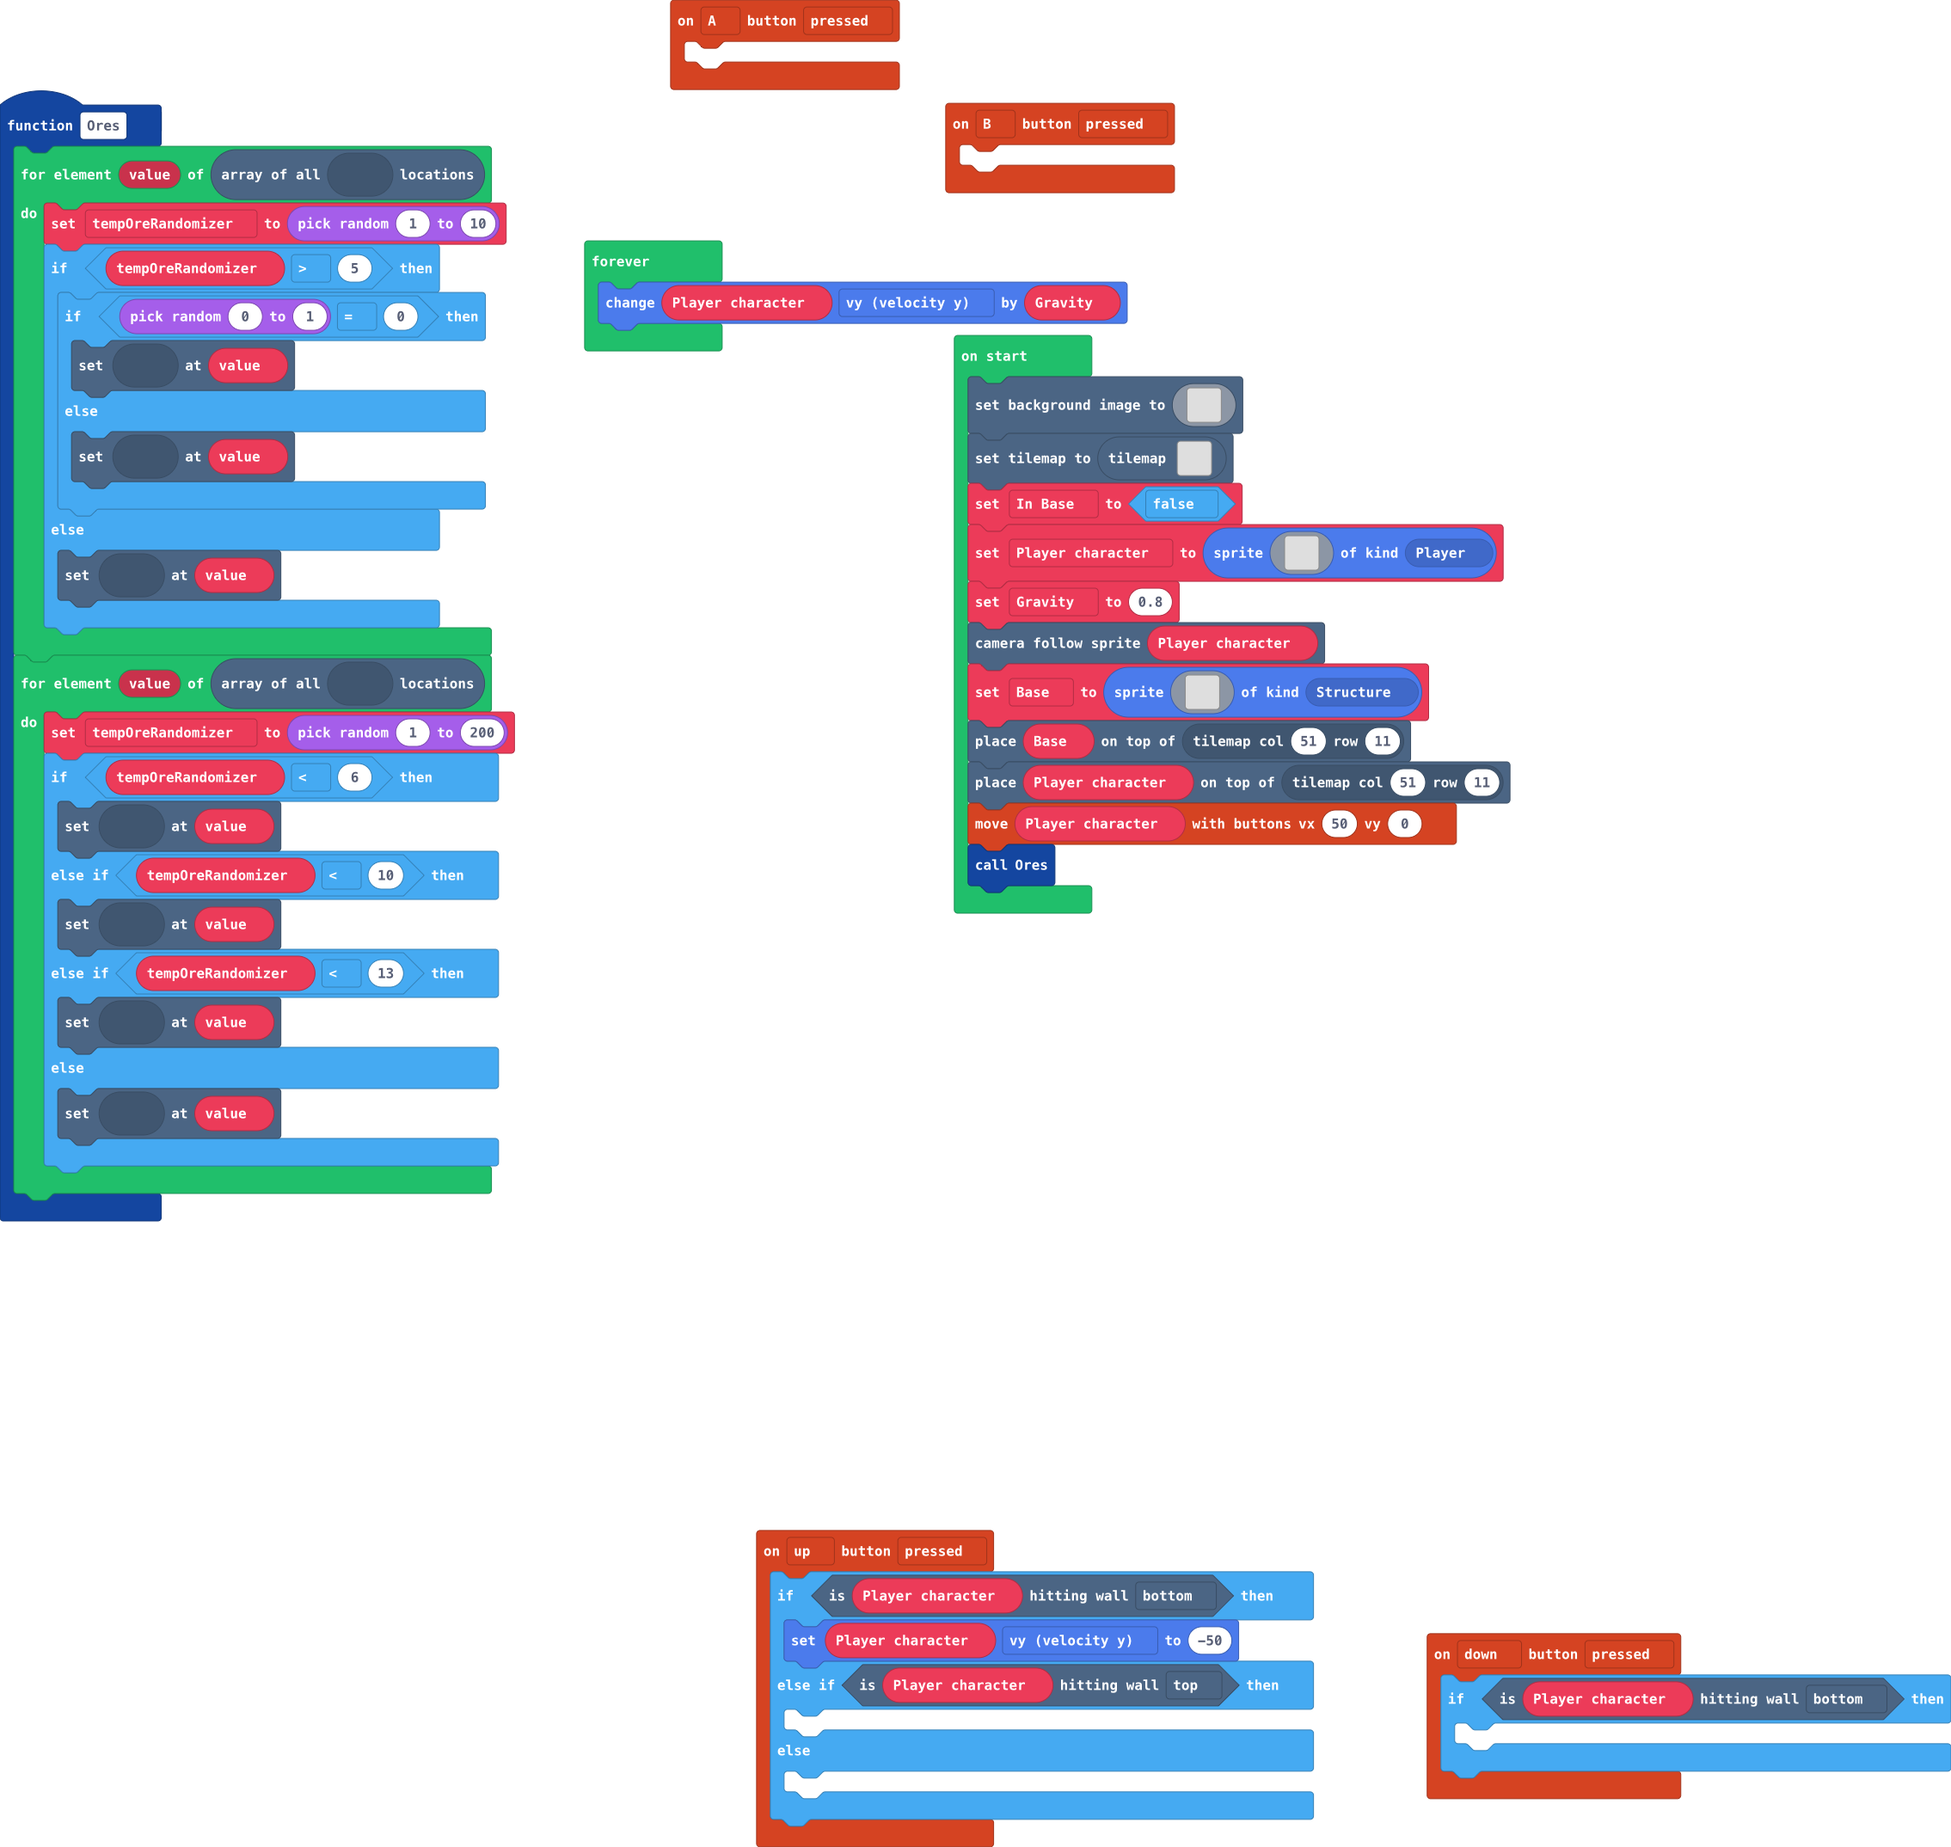
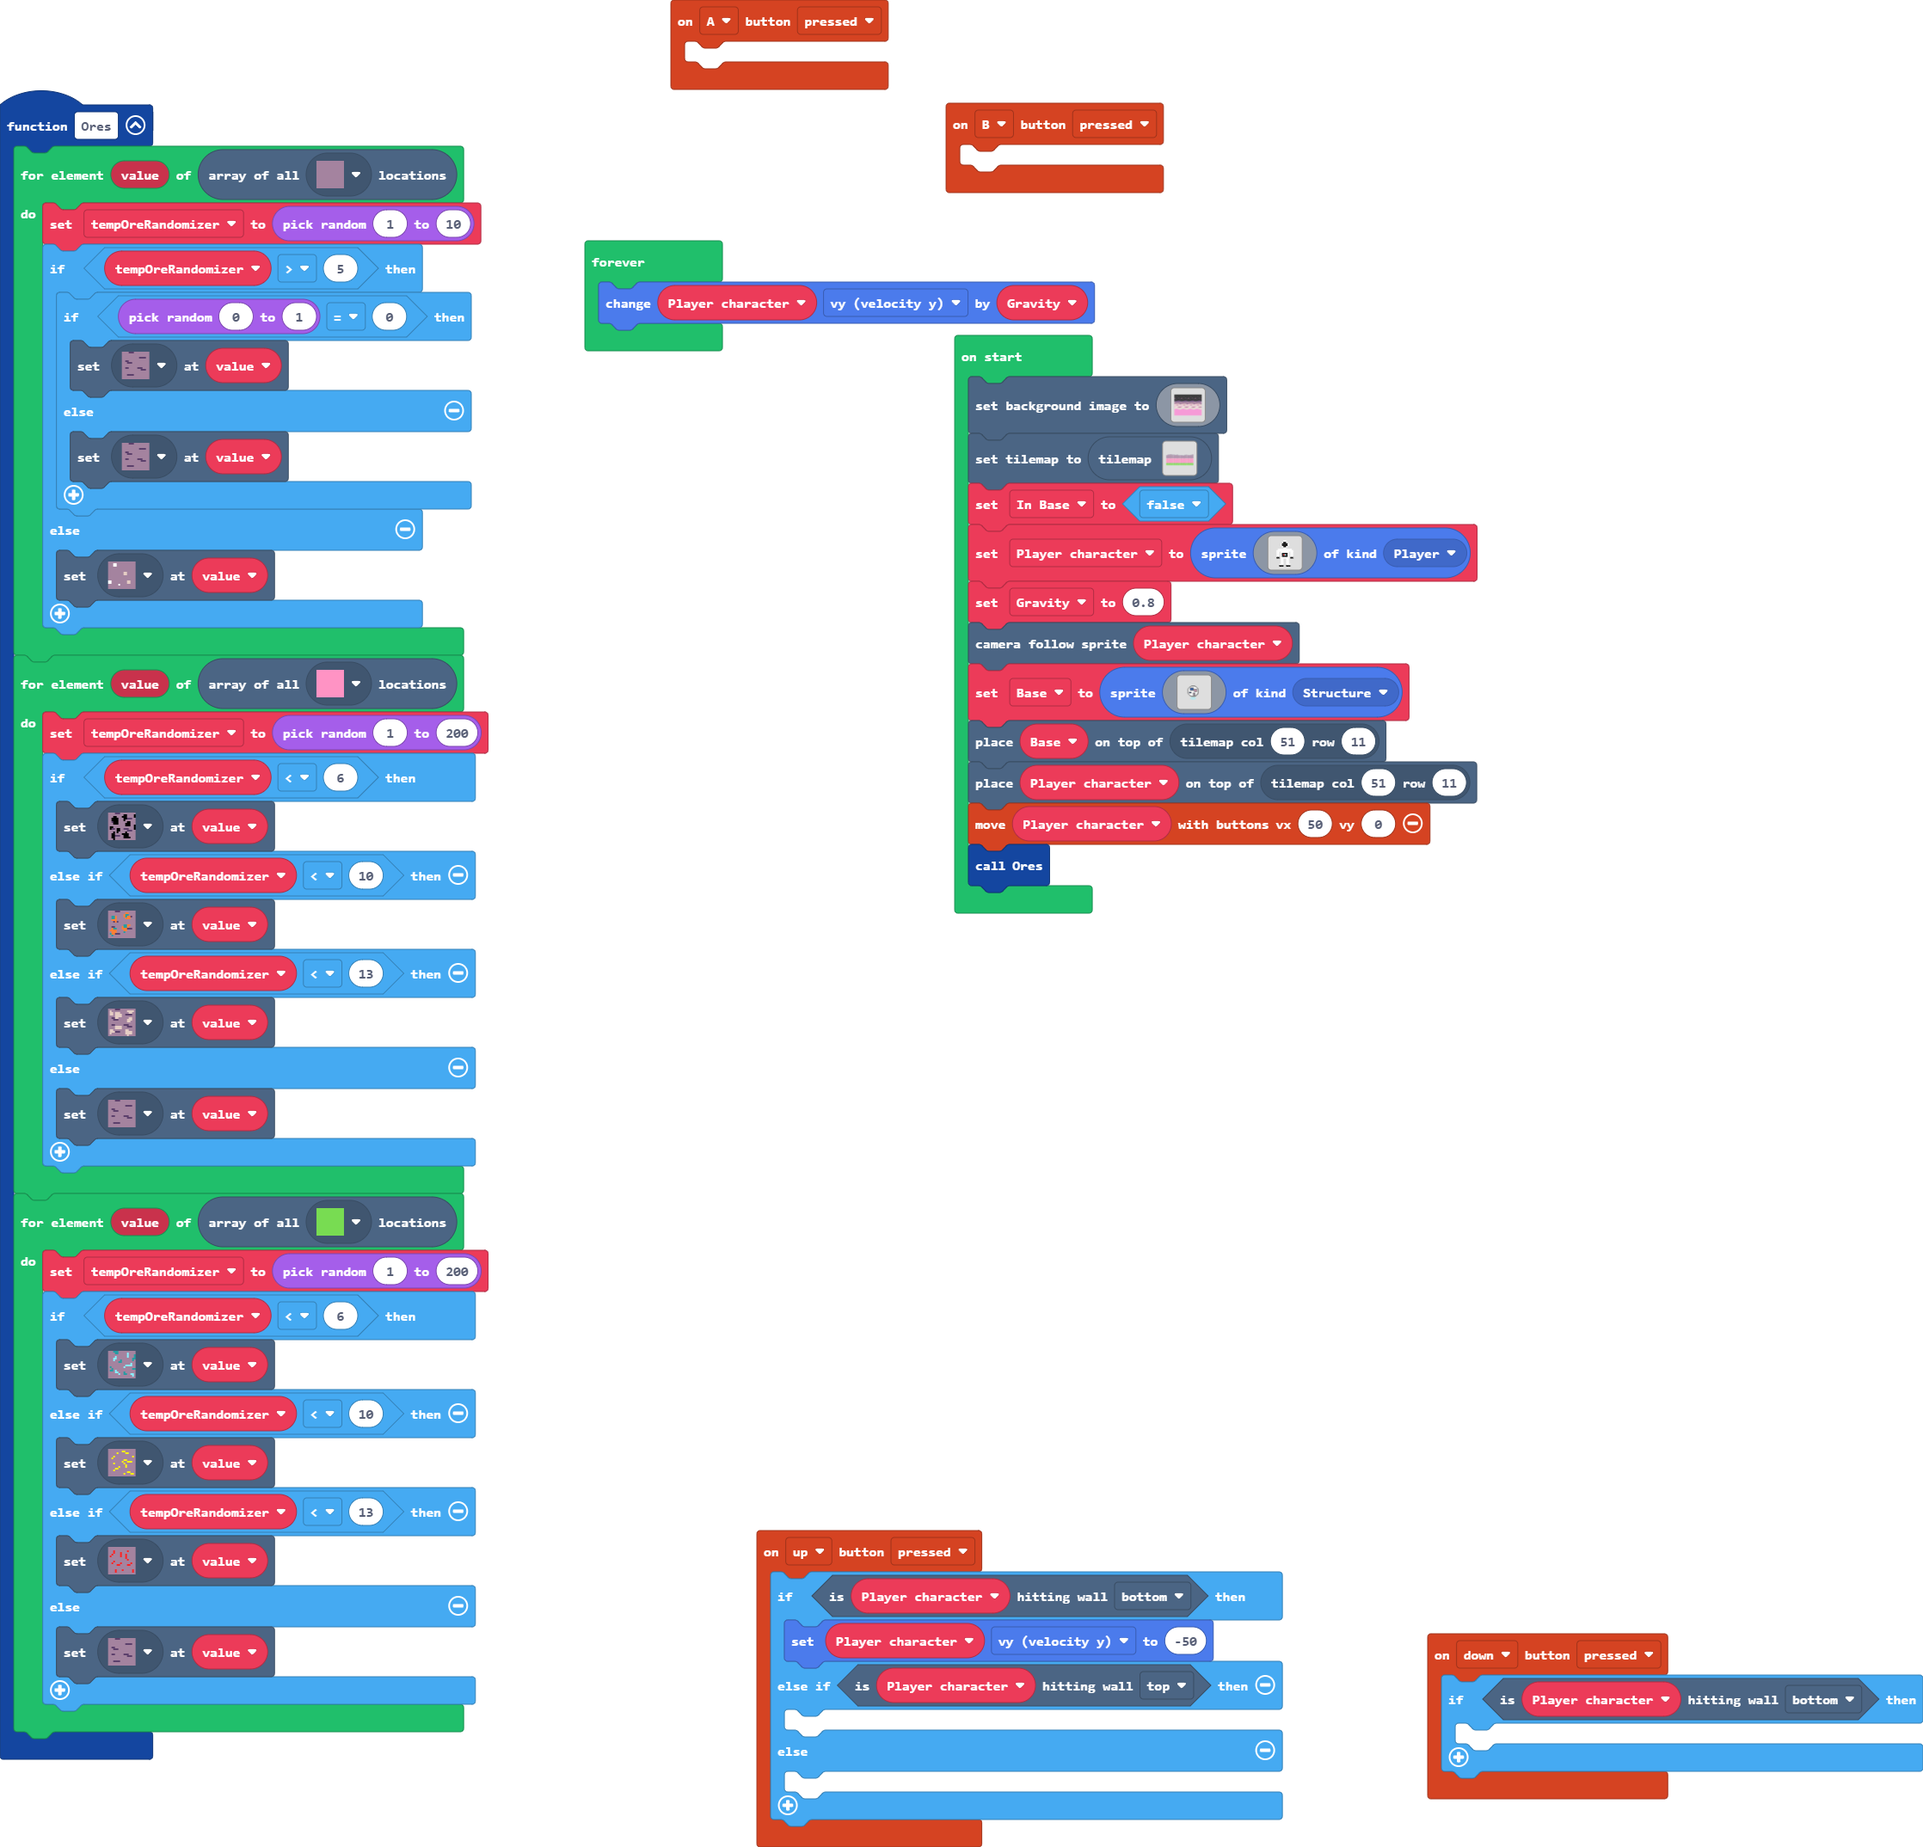
Made gemstone level

diff --git a/tilemap.g.ts b/tilemap.g.ts
@@ -32,6 +32,16 @@ namespace myTiles {
     export const tile17 = image.ofBuffer(hex``);
     //% fixedInstance jres blockIdentity=images._tile
     export const tile8 = image.ofBuffer(hex``);
+    //% fixedInstance jres blockIdentity=images._tile
+    export const tile13 = image.ofBuffer(hex``);
+    //% fixedInstance jres blockIdentity=images._tile
+    export const tile14 = image.ofBuffer(hex``);
+    //% fixedInstance jres blockIdentity=images._tile
+    export const tile18 = image.ofBuffer(hex``);
+    //% fixedInstance jres blockIdentity=images._tile
+    export const tile19 = image.ofBuffer(hex``);
+    //% fixedInstance jres blockIdentity=images._tile
+    export const tile20 = image.ofBuffer(hex``);
 
     helpers._registerFactory("tilemap", function(name: string) {
         switch(helpers.stringTrim(name)) {
@@ -88,7 +98,7 @@ namespace myTiles {
 ..............................
 `, [myTiles.transparency16], TileScale.Sixteen);
             case "Planet part 1":
-            case "level2":return tiles.createTilemap(hex`640032000000000000000000000000000000000000000000000000000000000000000000000000000000000000000000000000000000000000000000000000000000000000000000000000000000000000000000000000000000000000000000000000000000000000000000000000000000000000000000000000000000000000000000000000000000000000000000000000000000000000000000000000000000000000000000000000000000000000000000000000000000000000000000000000000000000000000000000000000000000000000000000000000000000000000000000000000000000000000000000000000000000000000000000000000000000000000000000000000000000000000000000000000000000000000000000000000000000000000000000000000000000000000000000000000000000000000000000000000000000000000000000000000000000000000000000000000000000000000000000000000000000000000000000000000000000000000000000000000000000000000000000000000000000000000000000000000000000000000000000000000000000000000000000000000000000000000000000000000000000000000000000000000000000000000000000000000000000000000000000000000000000000000000000000000000000000000000000000000000000000000000000000000000000000000000000000000000000000000000000000000000000000000000000000000000000000000000000000000000000000000000000000000000000000000000000000000000000000000000000000000000000000000000000000000000000000000000000000000000000000000000000000000000000000000000000000000000000000000000000000000000000000000000000000000000000000000000000000000000000000000000000000000000000000000000000000000000000000000000000000000000000000000000000000000000000000000000000000000000000000000000000000000000000000000000000000000000000000000000000000000000000000000000000000000000000000000000000000000000000000000000000000000000000000000000000000000000000000000000000000000000000000000000000000000000000000000000000000000000000000000000000000000000000000000000000000000000000000000000000000000000000000000000000000000000000000000000000000000000000000000000000000000000000000000000000000000000000000000000000000000000000000000000000000000000000000000000000000000000000000000000000000000000000000000000000000000000000000000000000000000000000000000000000000000000000000000000000000000000000000000000000000000000000000000000000000000000000000000000000000000000000000000000000000000000000000000000000000000000000000000000000102020202020203000000000000000000000000000000000000000000000000000000000000000000000000000000000000000000000000000000000000000000000000000000000000000000000000000000000102020000000000000102020202020204040404040404040202020202020202020203000000000000000102020300000000000000000000000000000000000000000000000000000000000102030000000000000000000000000000000000000202020204040400000000000104040404040404040404040404040404040404040404040404040202020202020204040404030000000000000000000000000000000000000000000000010202020204040402020202020300000000000001020202020404040404040404020202020204040404040404040404040404040404040404040404040404040404040404040404040404040402020202020202020202020202020202030000000000010404040404040404040404040404020202020202040404040404040404040404040404040404040404040404040404040404040404040404040404040404040404040404040404040404040404040404040404040404040404040404040402020202020404040404040404040404040404040404040404040404040404040404040404040404040404040404040404040404040404040404040404040404040404040404040404040404040404040404040404040404040404040404040404040404040404040404040404040404040404040404040404040404040404040404080404040404040404040404040404040404040404040404040404040404040404040404040404040404040404040404040404040404040404040404040404040404040404040404040404040404040404040404040404040404040404040404040404040404040404040404040404040404040404040404040404040404040404040404040404040404040404040404040404040404040404040404040404040404040404040404040404040404040404040404040404040404040404040404040404040404040404040404040404040405050505050505050505050505050505050505050505050505050505050505050505050505050505050505050505050505050505050505050505050505050505050505050505050505050505050505050505050505050505050505050505050505050505050505050505050505050505050505050505050505050505050505050505050505050505050505050505050505050505050505050505050505050505050505050505050505050505050505050505050505050505050505050505050505050505050505050505050505050505050505050505050505050505050505050505050505050505050505050505050505050505050505050505050505050505050505050505050505050505050505050505050505050505050505050505050505050505050505050505050505050505050505050505050505050505050505050505050505050505050505050505050505050505050505050505050505050505050505050505050505050505050505050505050505050505050505050505050505050505050505050505050505050505050505050505050505050505050505050505050505050505050505050505050505050505050505050505050505050505050505050505050505050505050505050505050505050505050505050505050505050505050505050505050505050505050505050505050505050505050505050505050505050505050505050505050505050505050505050505050505050505050505050505050505050505050505050505050505050505050505050505050505050505050505050505050505050505050505050505050506060606060606060606060606060606060606060606060606060606060606060606060606060606060606060606060606060606060606060606060606060606060606060606060606060606060606060606060606060606060606060606060606060606060606060606060606060606060606060606060606060606060606060606060606060606060606060606060606060606060606060606060606060606060606060606060606060606060606060606060606060606060606060606060606060606060606060606060606060606060606060606060606060606060606060606060606060606060606060606060606060606060606060606060606060606060606060606060606060606060606060606060606060606060606060606060606060606060606060606060606060606060606060606060606060606060606060606060606060606060606060606060606060606060606060606060606060606060606060606060606060606060606060606060606060606060606060606060606060606060606060606060606060606060606060606060606060606060606060606060606060606060606060606060606060606060606060606060606060606060606060606060606060606060606060606060606060606060606060606060606060606060606060606060606060606060606060606060606060606060606060606060606060606060606060606060606060606060606060606060606060606060606060606060606060606060606060606060606060606060606060606060606060606060606060606060606060606060606060606060606060606060606060606060606060606060606060606060606060606060606060606060606060606060606060606060606060606060606060606060606060606060606060606060606060606060606060606060606060606060606060606060606060606060606060606060606060606060606060606060606060606060606060606060606060606060606060606060606060606060606060606060606060606060606060606060606060606060606060606060606060606060606060606060606060606060606060606060606060606060606060606060606060606060606060606060606060606060606060606060606060606060606060606060606060606060606060606060606060606060606060606060606060606060606060606060606060606060606060606060606060606060606060606060606060606060606060606060606060606060606060606060606060606060606060606060606060606060606060606060606060606060606060606060606060606060606060606060606060606060606060606060606060606060606060606060606060606060606060606060606060606060606060606060606060606060606060606060606060606060606060606060606060606060606060606060606060606060606060606060606060606060606060606060606060606060606060606060606060606060606060606060606060606060606060606060606060606060606060606060606060606060606060606060606060606060606060606060606060606060606060606060606060606060606060606060606060606060606060606060606060606060606060606060606060606060606060606060606060606060606060606060606060606060606060606060606060606060606060606060606060606060606060606060606060606060606060606060606060606060606060606060606060606060606060606060606060606060606060606060606060606060606060606060606060606060606060606060606060606060606060606060606060606060606060606060606060606060606060606060606060606060606060606060606060606060606060606060606060606060606060606060606060606060606060606060606060606060606060606060606060606060606060606060606060606060606060606060606060606060606060606060606060606060606060606060606060606060606060606060606060606060606060606060606060606060606060606060606060606060606060606060606060606060606060606060606060606060606060606060606060606060606060606060606060606060606060606060606060606060606060606060606060606060606060606060606060606060606060606060606060606060606060606060606060606060606060606060606060606060606060606060606060606060606060606060606060606060606060606060606060606060606060606060606060606060606060707070707070707070707070707070707070707070707070707070707070707070707070707070707070707070707070707070707070707070707070707070707070707070707070707070707070707070707070707070707070707070707070707070707070707070707070707070707070707070707070707070707070707070707070707070707070707070707070707070707070707070707070707070707070707070707070707070707070707070707070707070707070707070707070707070707070707070707070707070707070707070707070707070707070707070707070707070707070707070707070707070707070707070707070707070707070707070707070707070707070707070707070707070707070707070707070707070707070707070707070707070707070707070707070707070707070707070707070707070707070707070707070707070707070707070707070707070707070707070707070707070707070707070707070707070707070707070707070707070707070707070707070707070707070707070707070707070707070707070707070707070707070707070707070707070707070707070707070707070707070707070707070707070707070707070707070707070707070707070707070707070707070707070707070707070707070707070707070707070707070707070707070707070707070707070707070707070707070707070707070707070707070707070707070707070707070707070707070707070707070707070707070707070707070707070707070707070707070707070707070707070707070707070707070707070707070707070707070707070707070707070707070707070707070707070707070707070707070707070707070707070707070707070707070707070707070707070707070707070707070707070707070707070707070707070707070707070707070707070707070707070707070707070707070707070707070707070707070707070707070707070707070707070707070707070707070707070707070707070707070707070707070707070707070707070707070707`, img`
[1 lines of base64/hex data omitted]
 ....................................................................................................
 ....................................................................................................
 ....................................................................................................
@@ -139,7 +149,7 @@ namespace myTiles {
 2222222222222222222222222222222222222222222222222222222222222222222222222222222222222222222222222222
 2222222222222222222222222222222222222222222222222222222222222222222222222222222222222222222222222222
 2222222222222222222222222222222222222222222222222222222222222222222222222222222222222222222222222222
-`, [myTiles.transparency16,myTiles.tile1,myTiles.tile2,myTiles.tile3,myTiles.tile5,myTiles.tile7,myTiles.tile8,myTiles.tile9,myTiles.tile10], TileScale.Sixteen);
+`, [myTiles.transparency16,myTiles.tile1,myTiles.tile2,myTiles.tile3,myTiles.tile5,myTiles.tile7,myTiles.tile8,myTiles.tile9,myTiles.tile10,myTiles.tile18,myTiles.tile19,myTiles.tile20], TileScale.Sixteen);
         }
         return null;
     })
@@ -177,6 +187,16 @@ namespace myTiles {
             case "tile17":return tile17;
             case "myTile6":
             case "tile8":return tile8;
+            case "myTile10":
+            case "tile13":return tile13;
+            case "myTile11":
+            case "tile14":return tile14;
+            case "Diamonds":
+            case "tile18":return tile18;
+            case "myTile12":
+            case "tile19":return tile19;
+            case "myTile13":
+            case "tile20":return tile20;
         }
         return null;
     })

diff --git a/main.ts b/main.ts
@@ -41,6 +41,18 @@ function Ores () {
             tiles.setTileAt(value, assets.tile`Stone`)
         }
     }
+    for (let value of tiles.getTilesByType(assets.tile`myTile7`)) {
+        tempOreRandomizer = randint(1, 200)
+        if (tempOreRandomizer < 6) {
+            tiles.setTileAt(value, assets.tile`Diamonds`)
+        } else if (tempOreRandomizer < 10) {
+            tiles.setTileAt(value, assets.tile`myTile13`)
+        } else if (tempOreRandomizer < 13) {
+            tiles.setTileAt(value, assets.tile`myTile12`)
+        } else {
+            tiles.setTileAt(value, assets.tile`Stone`)
+        }
+    }
 }
 controller.down.onEvent(ControllerButtonEvent.Pressed, function () {
     if (Player_character.isHittingTile(CollisionDirection.Bottom)) {
